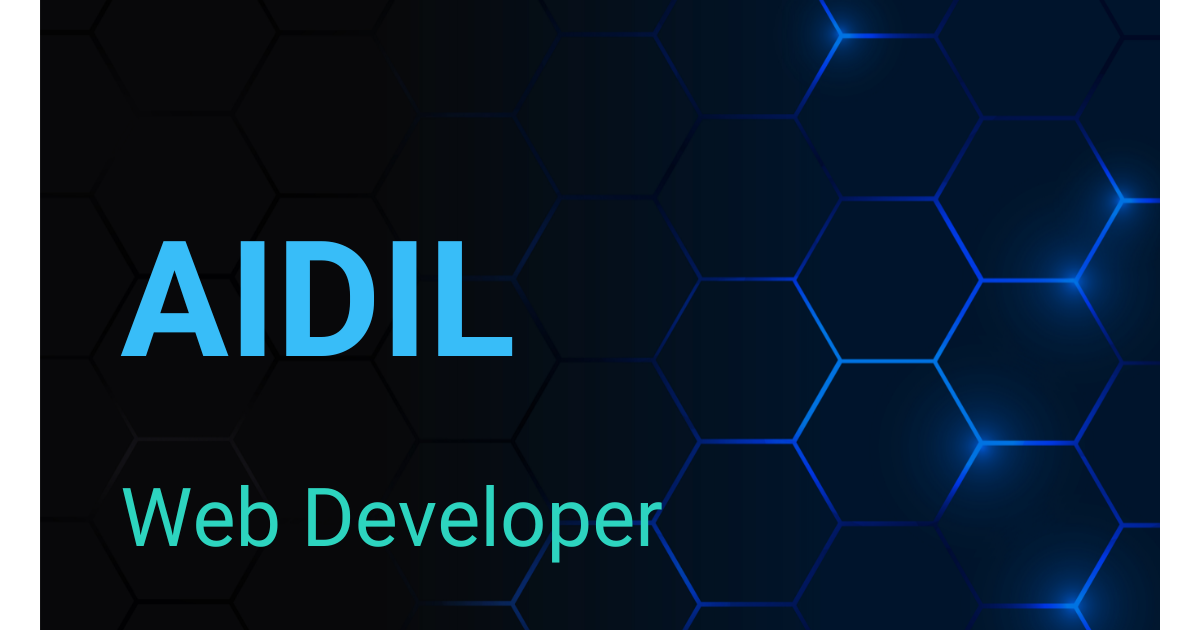
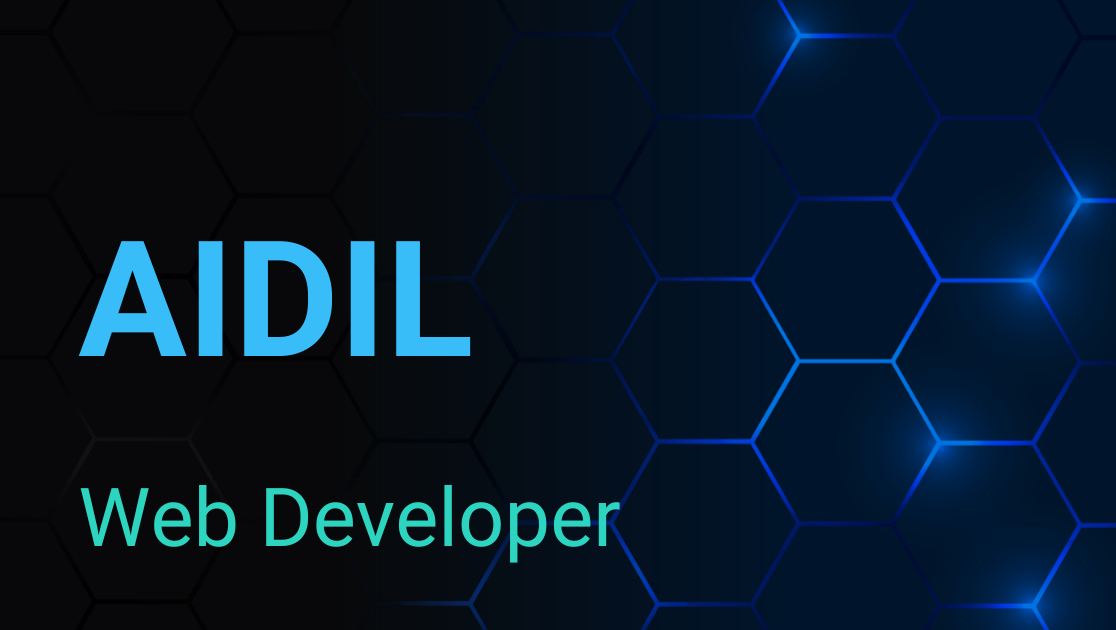
fix: static host web image to avoid unrender image

diff --git a/src/app.html b/src/app.html
@@ -12,9 +12,10 @@
 		<!-- OGP -->
 		<meta property="og:title" content="Aidil.dev" />
 		<meta property="og:type" content="profile" />
-		<meta property="og:image" content="./images/site-image.png" />
-		<meta property="og:image:width" content="1200" />
-		<meta property="og:image:height" content="630" />
+		<meta
+			property="og:image"
+			content="https://res.cloudinary.com/dgy1ecavp/image/upload/f_auto,q_auto/v1/aidil.dev/wr6yhpz5nunnjyclgjbf"
+		/>
 		<meta
 			property="og:description"
 			content="I'm a passionate web developer with a strong commitment to creating user-friendly websites
